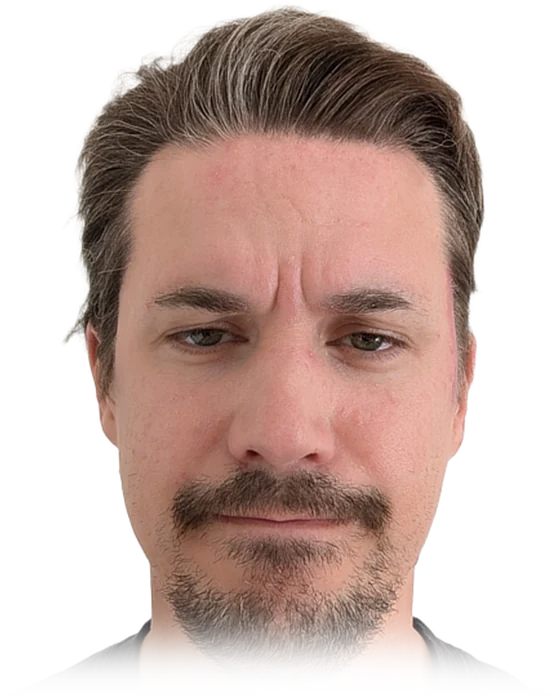
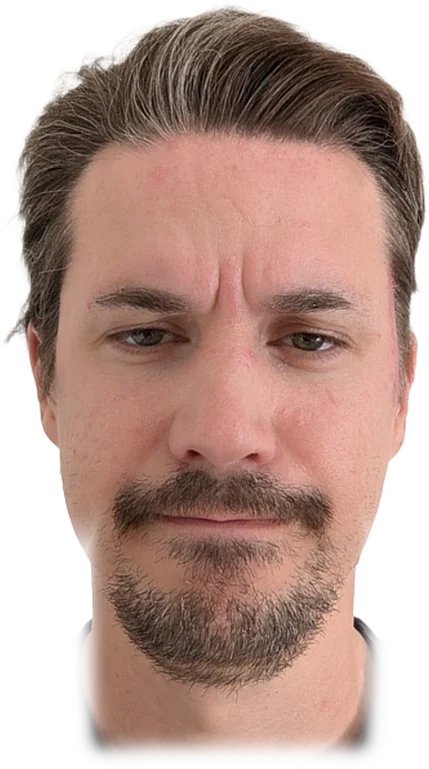
feat(mata-munnen): pappa far en HALS - han star bakom banken (arbetsorder A3)
Kokson skar forut mitt i skagget (ruta 616) och pappa lastes som ett huvud
pa ett fat. Nu gar hakan och halsens oversta 19 px ner BAKOM bankkanten.

Bada halvorna av planen i §7 foll pa matning, och bada ar vardа att ha kvar:

1. `hakaTon` KAN INTE LOSA HALSEN. Avlast i neutral.png: axelsommen borjar pa
   ruta-y ~614, alltsa OVANFOR hakan (683). En vagrat ton kan darmed per
   definition inte skilja hals fran troja - den sankta tonen gav en bred
   halvgenomskinlig sjok tvars over halsen.
   ⚠ Och nasta ide, "nyckla pa LJUSHET", sag BEVISAD ut pa tva stickprov
   (troja 21, morkaste skagg 101). Matt som SPANN over hela ytor overlappar
   de helt: skagget gar ner till 19 och trojans veck upp till 152. Troskeln
   18 % lag pa 46 medan trojan vid (200,650) lag pa 45, och den enda pixelns
   marginal blev ett 11 % genomskinligt spoke av hela axelpartiet. TVA PUNKTER
   AR INTE ETT SPANN.
   Det som faktiskt skiljer dem ar POSITION, profilerad rad for rad (hud
   x 245-520 vid y 660, 258-510 vid 730) -> en avsmalnande pelare i masken.

2. FRONT-ON-RITNINGEN BEHOVDES INTE. Den var §7:s losning pa en knut som en
   billigare andring loser helt: ANS 268/470 -> 250/460 (ansiktet upp 18 px,
   ner 2 % i storlek). Da hamnar skarlinjen i halsen (ruta 730) i stallet for
   i skagget utan att brada, mat, fysik eller ons front rors - och alla tre ar
   fullt budgeterade (luckorna slutar 706 av skarmens 720, bradan 558 av
[…]

diff --git a/src/games/mata-munnen/kok.js b/src/games/mata-munnen/kok.js
@@ -22,15 +22,48 @@ import { verticalFill, verticalFillAlpha, cylinderFill, topLightFill } from '../
 // Ansiktet är MASTER: köksön räknas ur det, aldrig tvärtom.
 // Höjden är en avvägning mellan två saker som drar åt olika håll: grimasen ÄR belöningen
 // (stort ansikte), men skärlinjen ligger på en fast andel av höjden — ett större ansikte
-// trycker alltså ner köksön och gör bänkskivan till en list att balansera hakan på. 470
-// ger 171 px bänkdjup, vilket är det som får huvudet att stå BAKOM en bänk i stället för
-// på en kant. Uppmätt i bild: vid h=500 blev djupet 146 och skarven läste som ett fat.
-export const ANS = { x: 620, y: 268, h: 470 }
+// trycker alltså ner köksön och gör bänkskivan till en list att balansera hakan på.
+// Uppmätt i bild: vid h=500 blev djupet 146 och skarven läste som ett fat.
+//
+// 470 → 460 och y 268 → 250 är HALSENS pris, och det är ett litet pris: ansiktet krymper
+// 2 % och flyttas upp 18 px, vilket räcker för att skärlinjen ska hamna i halsen (ruta
+// 730) i stället för i skägget (ruta 616) — utan att röra bräda, mat, fysik eller öns
+// front, som alla är fullt budgeterade. Hjässan får 20 px luft mot skärmkanten (vid
+// h=470 blev det 10, för tunt).
+export const ANS = { x: 620, y: 250, h: 460 }
 
-// Andelen av fotorutan där halsen fortfarande är tät (616/800) — se filhuvudet.
-const HALS = 0.77
+// Var i fotorutan de olika delarna av pappa ligger, som andel av rutans höjd. AVLÄST med
+// linjal i utrutan (`.tmp-ansikte/_halslinjal.png`), inte gissat: hakans/skäggets underkant
+// 695, halsen 700–785, tröjkragen 785, axlar därunder.
+const RUTA = { haka: 695 / 800, halsTopp: 700 / 800, krage: 785 / 800 }
+// Var en ruta-andel hamnar i designkoordinater.
+const rutaY = (a) => ANS.y + (a - 0.5) * ANS.h
 
-export const KANT_Y = Math.round(ANS.y + (HALS - 0.5) * ANS.h) // 395 — köksöns bakkant
+// ⚠ KÖKSÖNS BAKKANT ÄR INTE LÄNGRE HALSLINJEN. Så länge de var samma tal skar bänken
+// mitt i skägget (ruta 616), och det var därför pappa läste som ett HUVUD PÅ ETT FAT: en
+// hals som försvinner bakom en bänk är en person, ett avskuret skägg är det inte.
+//
+// De två talen drar dessutom åt olika håll och kan inte vara ett:
+//   · bakkanten kan inte längre ner än ~445 — skärbrädan börjar på 452, och brädan i sin
+//     tur kan inte flytta ner för öns luckor slutar redan på 706 av skärmens 720.
+//   · halsen börjar först på ruta 700, alltså UNDER 445 så länge ansiktet står där det stod.
+// Knuten löses i stället uppåt: ansiktet lyftes 23 px (`ANS.y` 268 → 245), vilket flyttar
+// hela fotot upp utan att röra bräda, mat, fysik eller öns front. Skärlinjen hamnar då i
+// halsen i stället för i skägget, och det blev samtidigt mer luft ovanför hjässan.
+export const KANT_Y = 440 // köksöns bakkant, i design-y
+export const HAKA_Y = Math.round(rutaY(RUTA.haka)) // hakans underkant — bakkanten ska ligga UNDER den
+export const HALS_Y = Math.round(rutaY(RUTA.halsTopp)) // där halsen börjar i bilden
+
+// Bus-ellipsens nedre halvaxel: hur långt NER från ansiktets mitt en släppt matbit
+// fortfarande läser som "på pappa". Räknas ur FOTOT — ruta 616 är där silhuetten ännu är
+// full bredd — och aldrig ur köksöns kant.
+//
+// ⚠ Stod som `KANT_Y - ANS.y` i index.js och var därmed en TYST PASSAGERARE på
+// bänkkanten. När kanten gick 395 → 440 växte ellipsen 127 → 190 utan att någon rört
+// buset, och `_kasta` läste då varje kast som bus: uppmätt **0 av 8 kast nådde pappa**
+// (`_kastprobe`), utan ett konsolfel. Halsen är dessutom SMAL — en ellips med rx 215 som
+// når ner till bänken påstår att en bit 130 px vid sidan om halsen ligger på pappa.
+export const BUS_NER = Math.round((616 / 800 - 0.5) * ANS.h)
 export const BANK_Y = 566 // bänkskivans framkant; nedanför börjar öns front
 export const GOLV_Y = 388 // vägg möter golv (bakom ön, syns bara ute i kanterna)
 
@@ -129,10 +162,10 @@ export const STATIONER = [
   { id: 'lador', sv: 'Lådorna', yta: { x: 1078, y: 438, w: 180, h: 166 }, typ: 'lada',
     innehall: ['tandborste', 'disksvamp', 'strumpa', 'kalsonger', 'kackerlacka', 'spindel', 'toapapper', 'snor', 'leksaksbil'],
     platser: [[1168, 494]] }, // ovanför fronten när den dragits ut 56 % av 166 px
-  // --- köksöns front ---
-  { id: 'oskap_v', sv: 'Kastrullskåpet', yta: { x: 300, y: 600, w: 320, h: 106 }, typ: 'dorr-v',
+  // --- köksöns front (`pa: 'on'` = ritas i FRAMGRUNDEN, framför pappa) ---
+  { id: 'oskap_v', sv: 'Kastrullskåpet', yta: { x: 300, y: 600, w: 320, h: 106 }, typ: 'dorr-v', pa: 'on',
     innehall: ['kastrull', 'stekpanna', 'fat', 'slev', 'kavel'], platser: [[382, 650], [538, 650]] },
-  { id: 'oskap_h', sv: 'Besticklådan', yta: { x: 660, y: 600, w: 320, h: 106 }, typ: 'lada',
+  { id: 'oskap_h', sv: 'Besticklådan', yta: { x: 660, y: 600, w: 320, h: 106 }, typ: 'lada', pa: 'on',
     innehall: ['gaffel', 'sked', 'kniv', 'mugg', 'glas_saft', 'visp'], platser: [[742, 636], [898, 636]] },
 ]
 
@@ -570,7 +603,13 @@ export function byggKok(ctx) {
     // Öns luckor hör till framgrunden (framför pappa), resten till bakgrunden. Insidan
     // ALLTID före dörren — annars svänger dörren upp bakom sitt eget skåp. Och loopen
     // ligger SIST: läggs öns luckor till innan öns stomme hamnar de bakom den.
-    const lager = st.yta.y > KANT_Y ? framgrund : bakgrund
+    //
+    // ⚠ Villkoret stod som `st.yta.y > KANT_Y` och var därmed en TYST passagerare på ett
+    // tal som just flyttades. Vad som hör till ön är inte en höjdfråga — det är en
+    // tillhörighetsfråga — och `lador` (y 438) hade bytt lager av sig självt när kanten
+    // gick 395 → 440. Ingen skillnad i bild (lådan står på x 1078–1258, ön slutar 1064),
+    // men en lagerordning som ändrar sig när en helt annan siffra ändras är en fälla.
+    const lager = st.pa === 'on' ? framgrund : bakgrund
     lager.addChild(st.inre, st.dorr)
   }
 

diff --git a/src/games/mata-munnen/index.js b/src/games/mata-munnen/index.js
@@ -20,7 +20,7 @@
 // pappa blir förvånad, säger aj eller fnissar, och geggan sitter kvar till rapfinalen.
 import { Circle, Container, Graphics, Rectangle } from 'pixi.js'
 import { gsap } from 'gsap'
-import { ANS, BANK_Y, BRADA, FYSIK, KANT_Y, MATARE, OPPNA_MAX, PLATSER, byggKok } from './kok.js'
+import { ANS, BANK_Y, BRADA, BUS_NER, FYSIK, KANT_Y, MATARE, OPPNA_MAX, PLATSER, byggKok } from './kok.js'
 import { arAtbar, makeSak, sakFarg, sakMaterial, sakMin, sakPruttar } from './skafferi.js'
 import { DragController } from '../../lib/DragController.js'
 import { Body, PhysicsWorld, mat } from '../../lib/physics.js'
@@ -44,7 +44,9 @@ const MUN_R = 130                // snäppradie till munnen (P0: träffyta ≫96
 // brädan fick den klassad som en ansiktsträff, och eftersom `_geggaL` ritas BAKOM köksöns
 // förgrund såg det ut som att biten bara försvann. (Hittat vid genomgången av ägarrapport
 // #8; ägaren beskrev symptomet som "förvirrande och plottrigt".)
-const BUS = { rx: 215, ry: 250, ryNer: KANT_Y - ANS.y }
+// ⚠ `ryNer` kommer ur FOTOT (`BUS_NER` i kok.js), inte ur bänkkanten. Se skälet där:
+// som `KANT_Y - ANS.y` slukade ellipsen hela kastzonen så fort kanten flyttades.
+const BUS = { rx: 215, ry: 250, ryNer: BUS_NER }
 const GRIP_R = 52
 
 // KASTET (ägaruppdrag 2, steg 4). Talen är px/STEG där matter räknar och px/ms där

diff --git a/docs/games/mata-munnen.md b/docs/games/mata-munnen.md
@@ -462,7 +462,64 @@ fade blandar sig in.
 `HO` (SPH-vattnets kärl) om diskhon byggs om. Träffytorna räknas om par för par — **även
 föremålens** `GRIP_R` 52 (= 104 px diameter), som var det enda P0-brott kritikern hittade.
 
-## 7. ARBETSORDER — allt som är kvar på Mata Pappa (skriven 2026-08-13, v1.201.0)
+## 7b. ARBETSORDERN ÄR KÖRD (2026-08-13, v1.204.0) — A1 · A2 · A3 klara
+
+Alla tre posterna i §7 är byggda, mätta och committade. Det som §7 sa skulle byggas stämde
+i två fall av tre; den tredje bytte metod efter en mätning, och det är den intressanta.
+
+| | posten | utfall |
+|---|---|---|
+| A1 | blicken | ✅ `blick_v` · `blick_h` · `blick_ner`, 0,12 MB GPU/riktning |
+| A2 | variantminer | ✅ 7 roller med 2–3 foton, 10 extra lappar, GPU oförändrat |
+| A3 | köket + halsen | ✅ halsen syns — men **inte** genom en front-on-ritning, se nedan |
+
+**Den återkommande läxan, tre gånger i samma pass: POSE-MÅTTET ÄR BLINT FÖR MIMIK.**
+`rest` (silhuett-IoU) är byggt för att ignorera minen, och därför kan det aldrig avgöra
+vilket foto som ska väljas när kandidaterna delar pose. Tre gånger gav det två kandidater
+IDENTISKA tal och rätt svar avgjordes i bild: `blick_h` (#95 mot #98 — båda 0,025, men #95
+drar ner brynet och läser som misstänksam), `variant_bort` (fyra kandidater under rest-taket
+som läser som fel min), och `fundersam` (hela restlistan är samma sömniga bild). **Ett foto
+som ska bära ett UTTRYCK måste dömas i ögonzoomen/rutnätet, aldrig på ett rest-tal.**
+
+**A3 bytte metod, och premissen föll på en mätning.** §7 sa: rita om köksön, diskbänken och
+spisen mer framifrån så toppytan blir grundare med avsikt, sedan flytta `G.hakaTon`. Båda
+halvorna visade sig vara fel:
+
+1. **`hakaTon` kan inte lösa halsen alls.** Avläst i `neutral.png`: AXELSÖMMEN börjar på
+   ruta-y ~614, alltså OVANFÖR hakan (683). En vågrät ton kan därför per definition inte
+   skilja hals från tröja — den sänkta tonen gav en bred halvgenomskinlig sjok tvärs över
+   halsen. ⚠ Och nästa idé, "nyckla på LJUSHET", såg bevisad ut på två stickprov (tröja 21,
+   mörkaste skägg 101) men föll när ytorna mättes som SPANN: skägget går ner till **19** och
+   tröjans veck upp till **152** — spannen överlappar helt, och den enda pixelns marginal
+   gav ett 11 % genomskinligt spöke av hela axelpartiet. Det som faktiskt skiljer dem är
+   POSITION, profilerad rad för rad (hud x 245–520 vid y 660, 258–510 vid 730) → en
+   avsmalnande pelare i masken.
+2. **Front-on-ritningen behövdes inte.** Den var §7:s lösning på en knut som en billigare
+   ändring löser helt: `ANS` 268/470 → **250/460** (ansiktet upp 18 px, ner 2 % i storlek).
+   Då hamnar skärlinjen i halsen (ruta 730) i stället för i skägget (616) utan att bräda,
+   mat, fysik eller öns front rörs — och de tre är alla fullt budgeterade (luckorna slutar
+   på 706 av skärmens 720, brädan på 558 av bänkkantens 566). Bänkdjupet blir 126 px, under
+   det gamla "146 läser som ett fat", men det talet mättes UTAN hals: en hals som försvinner
+   bakom en bänk ÄR en person. Verifierat i bild.
+
+**Två tysta passagerare hittades när `KANT_Y` flyttades — båda hade gått igenom `check`:**
+- `BUS.ryNer = KANT_Y − ANS.y` växte 127 → 190 utan att någon rört buset, och `_kasta`
+  läste därmed VARJE kast som bus: **0 av 8 kast nådde pappa**, noll konsolfel. Ellipsen
+  räknas nu ur fotot (`BUS_NER`), och kastet är tillbaka på 7/7.
+- Lagerdelningen `st.yta.y > KANT_Y` hade flyttat `lador` (y 438) från framgrund till
+  bakgrund av sig själv. Ingen skillnad i bild (lådan står på x 1078, ön slutar 1064), men
+  villkoret är nu en tillhörighetsflagga (`pa: 'on'`) i stället för en höjdjämförelse.
+
+**Kvar (inget av det blockerar något):**
+- Ägarens ursprungliga front-on-önskan om **kranen och spisen** ("ser bättre ut") är
+  fortfarande ogjord — den var motiverad av utrymmet, och utrymmet löstes på annat sätt.
+  Ta den som en ren utseendepost om ägaren vill ha den.
+- Tuggklippens och klunkens snittpunkter är fortfarande valda på ljudstruktur, inte gehör.
+- 147 bilder ur shoot 2 ligger bara i `ComfyUI/output`.
+
+---
+
+## 7. ARBETSORDER — allt som är kvar på Mata Pappa (skriven 2026-08-13, v1.201.0) ✅ KÖRD
 
 Läs `docs/SESSIONS.md` och §6 först. **Två av de tre kvarvarande posternas premisser är nu
 mätta**, så det här är körbart utan att något behöver undersökas om.
